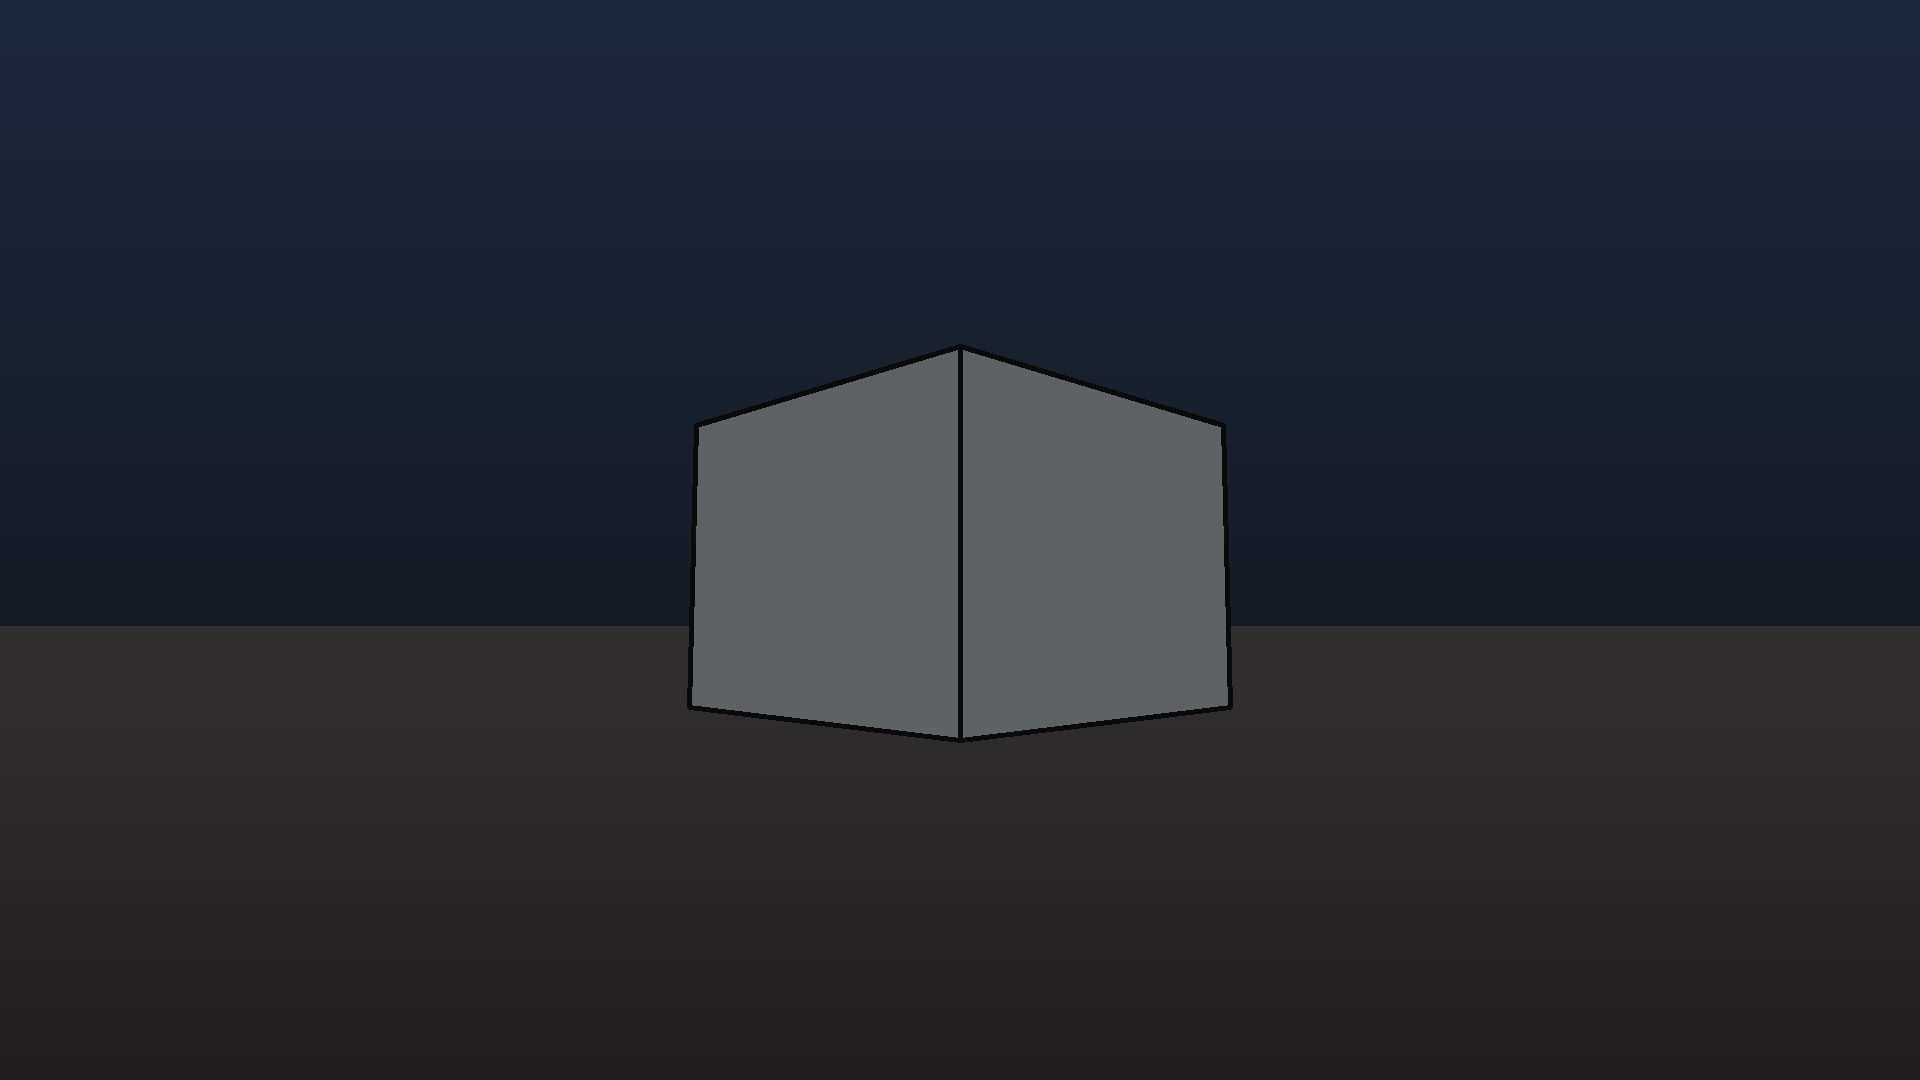
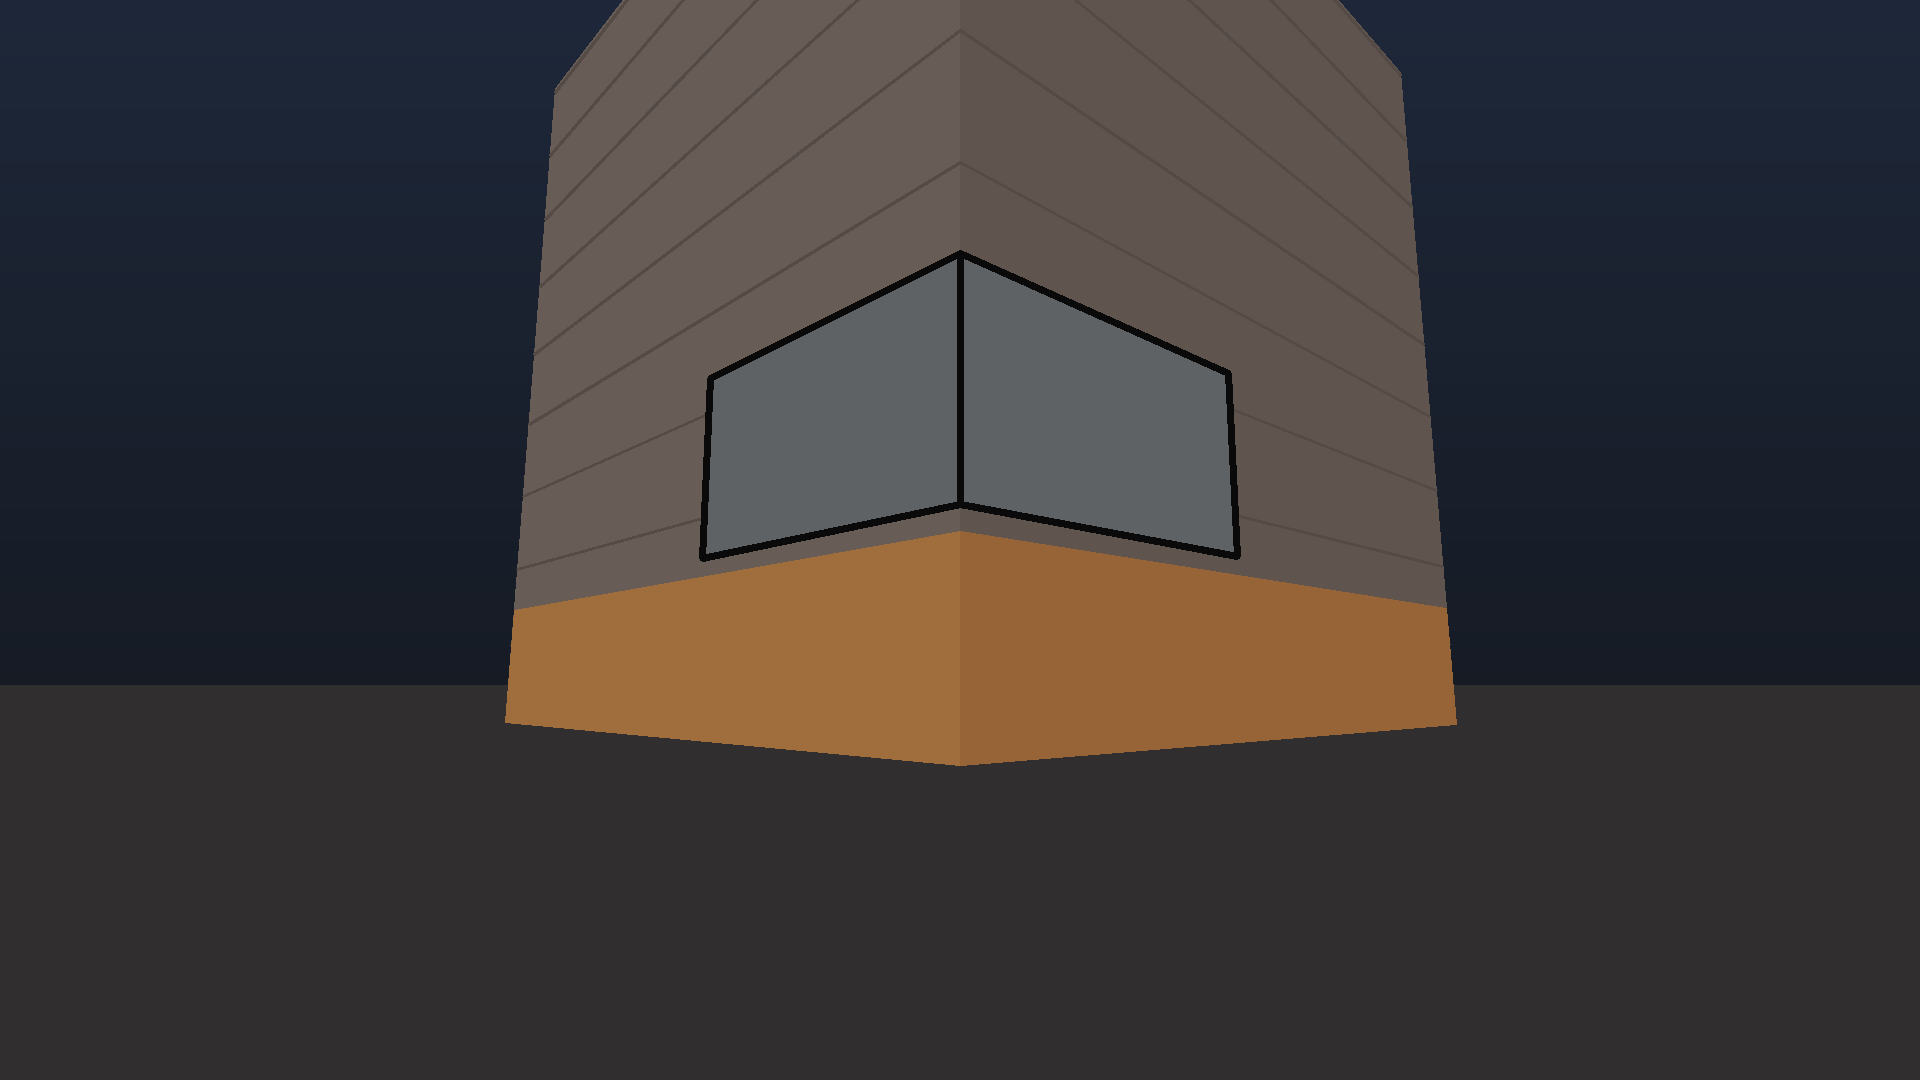
Hero backdrop v2: guide render now includes the building mass; elevated corner screen from photo_demo spec, quads taken from the projected geometry

diff --git a/web/app/hero3d/hero3d.js b/web/app/hero3d/hero3d.js
@@ -113,7 +113,7 @@ async function main() {
   // Default: photo mode (AI-generated street photo + live screen content). `?mode=3d` is the full 3D street.
   const PHOTO = true;   // fork: photo mode with our own generated backdrop (bg.json)
   const run = q.get('run');
-  const base = run ? `/${run.replace(/^\/+|\/+$/g, '')}` : new URL('../../hero/demo', import.meta.url).pathname;
+  const base = run ? `/${run.replace(/^\/+|\/+$/g, '')}` : new URL('../../hero/photo_demo', import.meta.url).pathname;
   const specBase = base;   // the photo's screen geometry
   const [scene, assumed, trueSpec] = await Promise.all([
     getJSON(`${base}/scene.json`), getJSON(`${specBase}/assumed_screen.json`), getJSON(`${specBase}/true_screen.json`)]);
